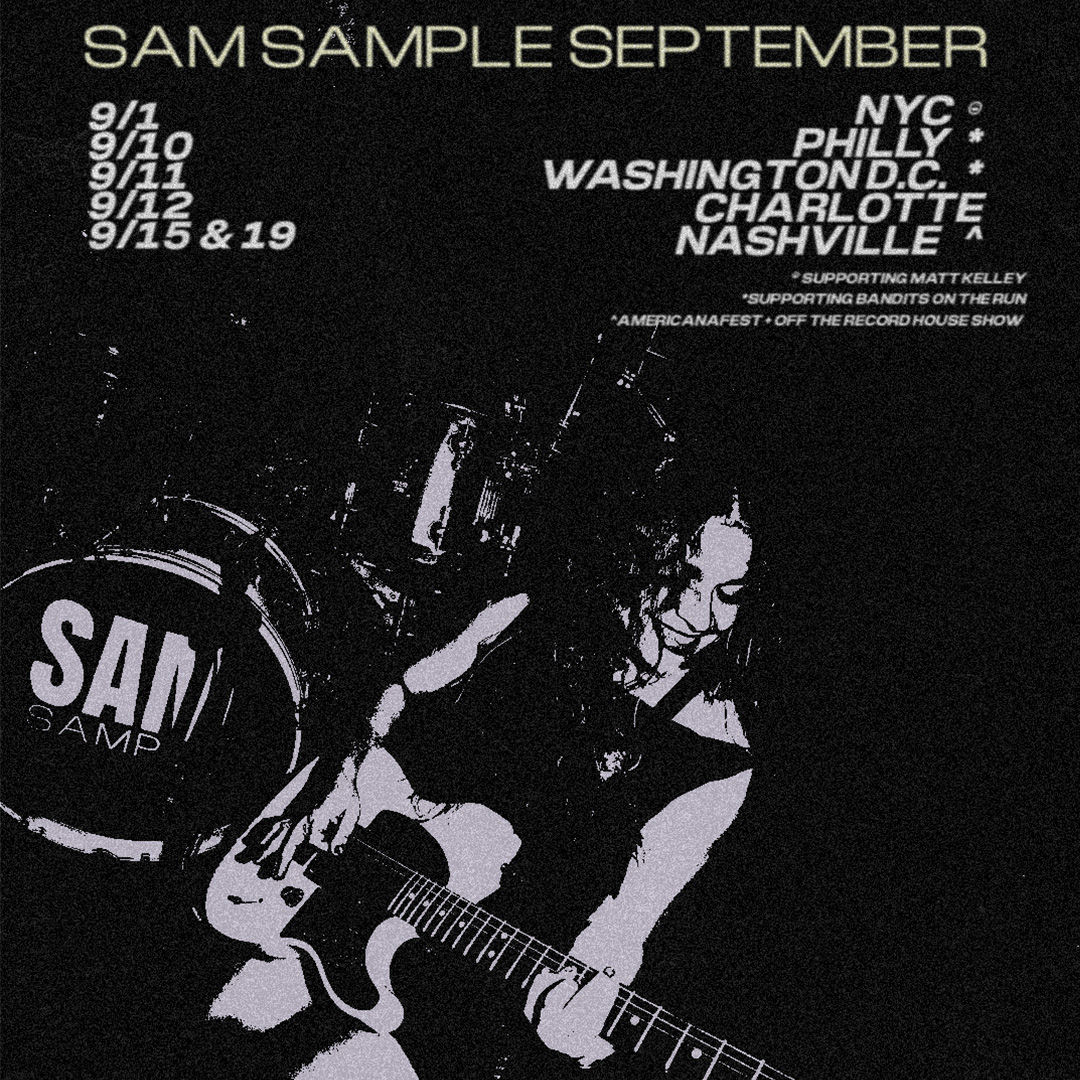
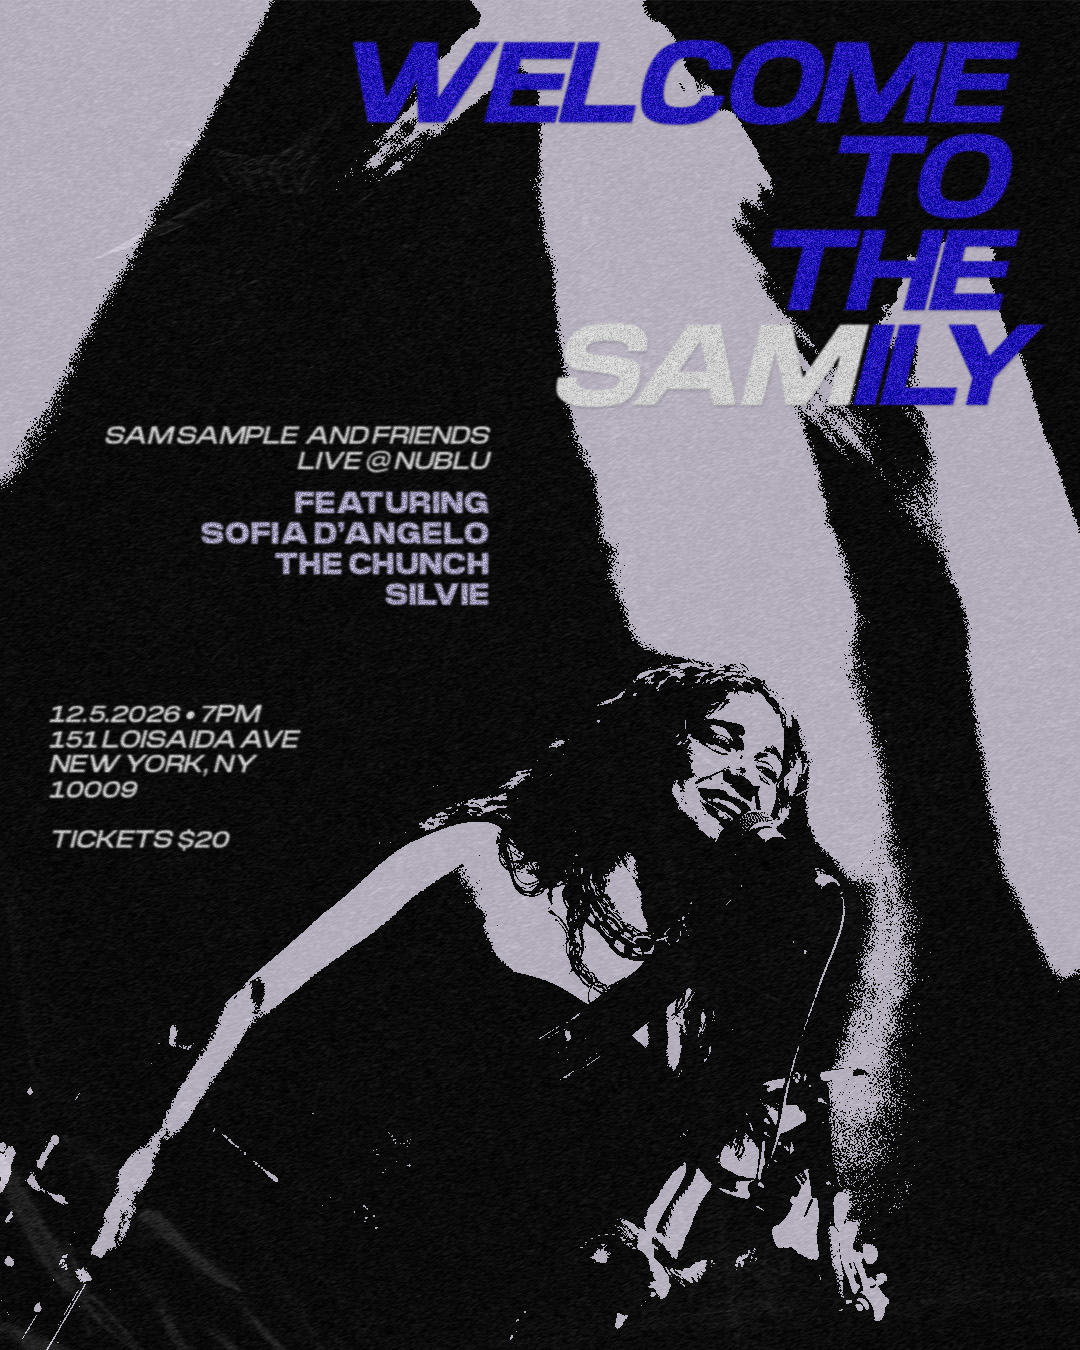
Updates

diff --git a/index.html b/index.html
@@ -64,7 +64,7 @@
             <div class="invitation-overlay">
                 <h2 class="invitation-title">YOU'RE INVITED</h2>
                 <p class="invitation-subtitle">WELCOME TO THE SAMILY</p>
-                <p class="personal-message">Sam is thrilled to personally invite you to her show on <em>December 5 at Nublu</em> as she rolls out her sophomore album, <em>LOOK IN THE MIRROR AND BEG</em>. It's going to be electric. See you there.</p>
+                <p class="personal-message">I am thrilled to personally invite you to my show on <em>December 5 at Nublu</em> as I roll out my sophomore album, <em>LOOK IN THE MIRROR AND BEG</em>. It's going to be electric. I've got some amazing friends joining me on the bill. See you there. <em>7–10pm.</em></p>
                 <a href="https://shotgun.live/en/events/welcome-to-the-sa-mily?utm_source=bandsintown" id="ticket-button" class="ticket-button" target="_blank">
                     GET YOUR TICKET
                 </a>
